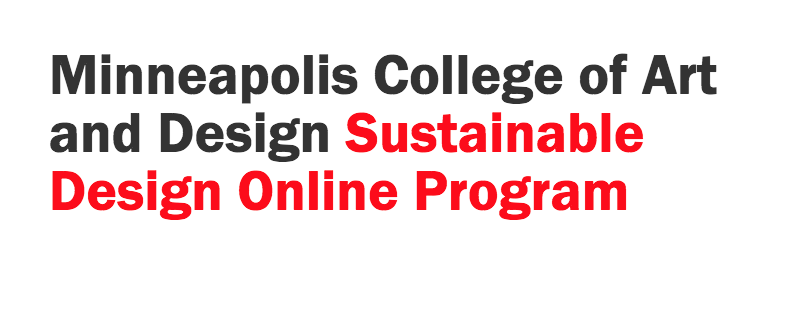
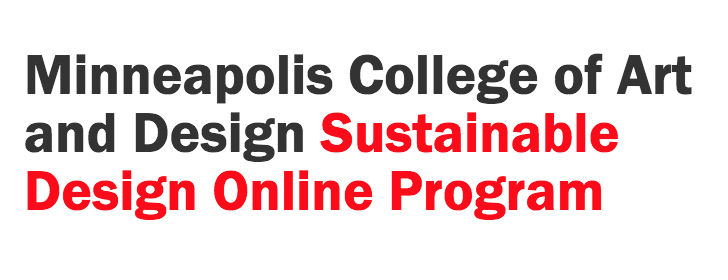
blog title module

Changed region(s): [[0.0302, 0.1714, 0.967, 0.8]]

diff --git a/app/styles/_globals.scss b/app/styles/_globals.scss
@@ -1,33 +1,25 @@
-body {
-  background: #fafafa;
-  font-family: $font-stack;
-  color: #333;
+html {
+  box-sizing: border-box;
+}
+*, *:before, *:after {
+  box-sizing: inherit;
 }
 
-.hero-unit {
-  margin: 50px auto 0 auto;
-  width: 300px;
-  font-size: 18px;
-  font-weight: 200;
-  line-height: 30px;
-  background-color: #eee;
-  border-radius: 6px;
-  padding: 60px;
-  h1 {
-    font-size: 60px;
-    line-height: 1;
-    letter-spacing: -1px;
-  }
+body {
+  background: $white;
+  font-family: $font-stack;
+  color: $black;
+  max-width: 960 / 16 * 1em;
+  margin: 4em auto;
 }
 
 .browserupgrade {
   margin: 0.2em 0;
   background: #ccc;
-  color: #000;
+  color: $black;
   padding: 0.2em 0;
 }
 
-.sample-image {
-  zoom: 0.5;
-  display: block;
+img {
+  max-width: 100%;
 }

diff --git a/app/modules.html b/app/modules.html
@@ -31,13 +31,15 @@
 
       <h1>Modules Page</h1>
 
+      <!-- .blog-title -->
       <div class="css-module">
         <h2>.blog-title</h2>
         <img class="sample-image" src="images/modules/blog-title.png" alt="Blog Title">
 
-        <!-- .blog-title -->
-         <h1 class="blog-title">Minneapolis College of Art and Design <span>Sustainable Design Online Program</span></h1>
-        <!-- end .blog-title -->
+        <h1 class="blog-title">
+          <span class="loco-mcad">Minneapolis College of Art and Design</span>
+          <span class="logo-sdo">Sustainable Design Online Program</span>
+        </h1>
       </div>
 
 

diff --git a/app/styles/_css-module.scss b/app/styles/_css-module.scss
@@ -1,7 +1,16 @@
 .css-module {
-	margin-bottom: 6em;
-	&> h2 {
-	  font-family: monospace;
-	  background-color: #eee;
-	}
+  margin-bottom: 6em;
+  &> h2 {
+    padding: 0.5em 0.25em;
+	font-family: monospace;
+	background-color: $gray-lighter;
+  }
+  .sample-image {
+    zoom: 0.5;
+    display: block;
+    border: 1px solid $gray-lighter;
+  }
+  &> *:last-child {
+    border: 1px solid $gray-lighter;
+  }
 }

diff --git a/app/styles/_variables.scss b/app/styles/_variables.scss
@@ -2,3 +2,10 @@
 
 //Typeface
 $font-stack: "franklin-gothic-urw", sans-serif;
+
+//Colors
+$white: #fff;
+$black: #333;
+$gray-light: #ccc;
+$gray-lighter: #eee;
+$color-logo-sdo: #fc0c1b;

diff --git a/app/styles/_blog-title.scss b/app/styles/_blog-title.scss
@@ -1,0 +1,10 @@
+// Blog Title
+
+.blog-title { 
+	max-width: 12.75em;
+	line-height: 1;
+	font-size: 1.8em;
+	.logo-sdo {
+	  color: $color-logo-sdo;
+	}
+}
